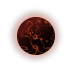
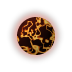
Redraw mineral worlds v2 (brighter, wider lava rivers) and v3 (blocky continents on a lava sea)
Claude-Session: https://claude.ai/code/session_01DRKpqnCyrZwnZLKGJij4TG

Changed region(s): [[0.2222, 0.2222, 0.7778, 0.7778]]

diff --git a/tools/make_planet_types.py b/tools/make_planet_types.py
@@ -121,38 +121,22 @@ def craters(src, rng, count=34, basins=0):
 
 
 def mineral_world(rng):
-    """Dark red rock seamed with glowing ore veins, in planet5's red glow."""
+    """Dark red rock cut by bright rivers of lava, in planet5's red glow."""
     nx, ny, nz, inside = sphere_coords()
     n = HEX * SS
-    base = noise(rng, n, base=3)
-    pal = np.array([(26, 8, 8), (52, 14, 12), (86, 22, 16), (120, 34, 22), (96, 26, 20)], np.float32)
-    idx = np.clip(base * (len(pal) - 1), 0, len(pal) - 1.001)
-    lo = np.floor(idx).astype(int)
-    f = (idx - lo)[..., None]
-    rgb = pal[lo] * (1 - f) + pal[lo + 1] * f
-    # veins: thin ridges of two noise fields
-    vein = np.zeros((n, n), np.float32)
-    for b, wdt in ((4, 0.035), (7, 0.025)):
+    rock = ramp(noise(rng, n, base=3), [(30, 9, 8), (56, 16, 12), (84, 24, 16), (104, 32, 20)])
+    # rivers: ridges of two noise fields, wide channels with a hot core
+    river = np.zeros((n, n), np.float32)
+    for b, wdt in ((4, 0.075), (7, 0.05)):
         r = noise(rng, n, base=b, octaves=4)
-        vein = np.maximum(vein, np.clip(1 - np.abs(r - 0.5) / wdt, 0, 1))
-    vein *= np.clip((noise(rng, n, base=3) - 0.35) * 3, 0, 1)   # broken up
-    glow = np.array([255, 96, 40], np.float32)
+        river = np.maximum(river, np.clip(1 - np.abs(r - 0.5) / wdt, 0, 1))
+    river *= np.clip((noise(rng, n, base=3) - 0.12) * 3, 0, 1)   # a few breaks
+    lava = ramp(river, [(170, 34, 10), (240, 96, 18), (255, 170, 40), (255, 236, 140)])
     s = shade(nx, ny, nz)
-    rgb = rgb * s[..., None]
-    # ore glows on its own, a little dimmer on the night side
-    rgb = rgb * (1 - vein[..., None] * 0.85) + glow * (vein * (0.55 + 0.45 * s))[..., None]
-    rgb = down_rgb(rgb)
-    d = np.sqrt(down(nx ** 2 + ny ** 2))
-    alpha = down(inside.astype(np.float32)) * 255
-    sphere = Image.fromarray(np.dstack([rgb, alpha]).clip(0, 255).astype(np.uint8), "RGBA")
-    canvas = Image.new("RGBA", (HEX, HEX), (0, 0, 0, 0))
-    g = Image.new("RGBA", (HEX, HEX), (0, 0, 0, 0))
-    dia = 2 * R
-    ImageDraw.Draw(g).ellipse([36 - dia / 2 - 3.5, 36 - dia / 2 - 3.5, 36 + dia / 2 + 2.5, 36 + dia / 2 + 2.5],
-                              fill=(220, 60, 40, 110))
-    canvas.alpha_composite(g.filter(ImageFilter.GaussianBlur(3)))
-    canvas.alpha_composite(sphere)
-    return canvas
+    m = np.clip(river * 2.2, 0, 1)[..., None]
+    # lava glows on its own, a little dimmer on the night side
+    rgb = rock * s[..., None] * (1 - m) + lava * (0.6 + 0.4 * s)[..., None] * m
+    return textured_sphere(rgb, glow=(220, 60, 40), lit=True)
 
 
 def textured_sphere(rgb, glow=None, lift=None, atmo=None, lit=False):
@@ -227,11 +211,11 @@ def life_world2(rng):
 
 
 def mineral_world3(rng):
-    """Dark red crust broken into plates, a few of them rich with copper ore,
-    pocked by craters."""
+    """Blocky continents of dark red rock adrift on a sea of lava; thin
+    bright cracks where the blocks meet."""
     nx, ny, nz, inside = sphere_coords()
     n = HEX * SS
-    pts = rng.normal(size=(70, 3))
+    pts = rng.normal(size=(140, 3))
     pts /= np.linalg.norm(pts, axis=1, keepdims=True)
     normals = np.stack([nx, ny, nz], -1).reshape(-1, 3)
     ang = np.arccos(np.clip(normals @ pts.T, -1, 1))
@@ -239,16 +223,32 @@ def mineral_world3(rng):
     first = order[:, 0]
     a1 = np.take_along_axis(ang, order[:, :1], 1)[:, 0]
     a2 = np.take_along_axis(ang, order[:, 1:2], 1)[:, 0]
+    # blocks cluster into continents: a plate is land where a coarse field is high
+    # four continents spread over the near side, jittered
+    xy = np.array([(-0.52, -0.40), (0.50, -0.42), (-0.40, 0.50), (0.48, 0.45)]) + rng.uniform(-0.1, 0.1, (4, 2))
+    seeds = np.column_stack([xy, np.sqrt(1 - (xy ** 2).sum(1))])
+    near = np.arccos(np.clip(pts @ seeds.T, -1, 1)).min(axis=1)
+    is_land = near < 0.44
+    land_px = is_land[first].reshape(n, n)
+    # land keeps a dark gap to the sea: the plate edge, measured inward
+    edge = (a2 - a1).reshape(n, n)
+    other = order[:, 1].reshape(n, n)
+    shore = land_px & ~is_land[other]                   # next plate is sea
+    block = land_px & ~(shore & (edge < 0.07))          # sea eats a margin
     tone = rng.random(len(pts))[first].reshape(n, n)
-    ore = (rng.random(len(pts)) < 0.3)[first].reshape(n, n).astype(np.float32)
-    grain = noise(rng, n, base=8, octaves=4)
-    rgb = ramp(np.clip(0.65 * tone + 0.35 * grain, 0, 1),
-               [(44, 12, 12), (70, 18, 16), (98, 28, 20), (124, 40, 26)])
-    crack = np.clip(1 - (a2 - a1).reshape(n, n) / 0.045, 0, 1)
-    rgb *= (1 - 0.75 * crack)[..., None]
-    speck = np.clip((noise(rng, n, base=40, octaves=2) - 0.58) * 6, 0, 0.8) * ore
-    rgb = rgb * (1 - speck[..., None]) + np.array([215, 120, 60], np.float32) * speck[..., None]
-    return craters(textured_sphere(rgb, glow=(200, 50, 40)), rng, count=10)
+    grain = noise(rng, n, base=10, octaves=4)
+    rock = ramp(np.clip(0.6 * tone + 0.4 * grain, 0, 1), [(40, 12, 12), (64, 18, 15), (90, 28, 20), (112, 38, 24)])
+    s = shade(nx, ny, nz)
+    rock = rock * s[..., None]
+    # cracks between neighbouring blocks: thin and bright
+    crack = (land_px & is_land[other] & (edge < 0.016)).astype(np.float32)
+    heat = noise(rng, n, base=6)
+    sea = ramp(heat, [(150, 30, 8), (205, 66, 14), (240, 112, 24), (255, 160, 48)])
+    sea = sea * (0.65 + 0.35 * s)[..., None]
+    rgb = np.where(block[..., None], rock, sea)
+    hot = np.array([255, 190, 70], np.float32) * (0.7 + 0.3 * s)[..., None]
+    rgb = rgb * (1 - crack[..., None]) + hot * crack[..., None]
+    return textured_sphere(rgb, glow=(230, 80, 40), lit=True)
 
 
 def spend(rng, *bases):
